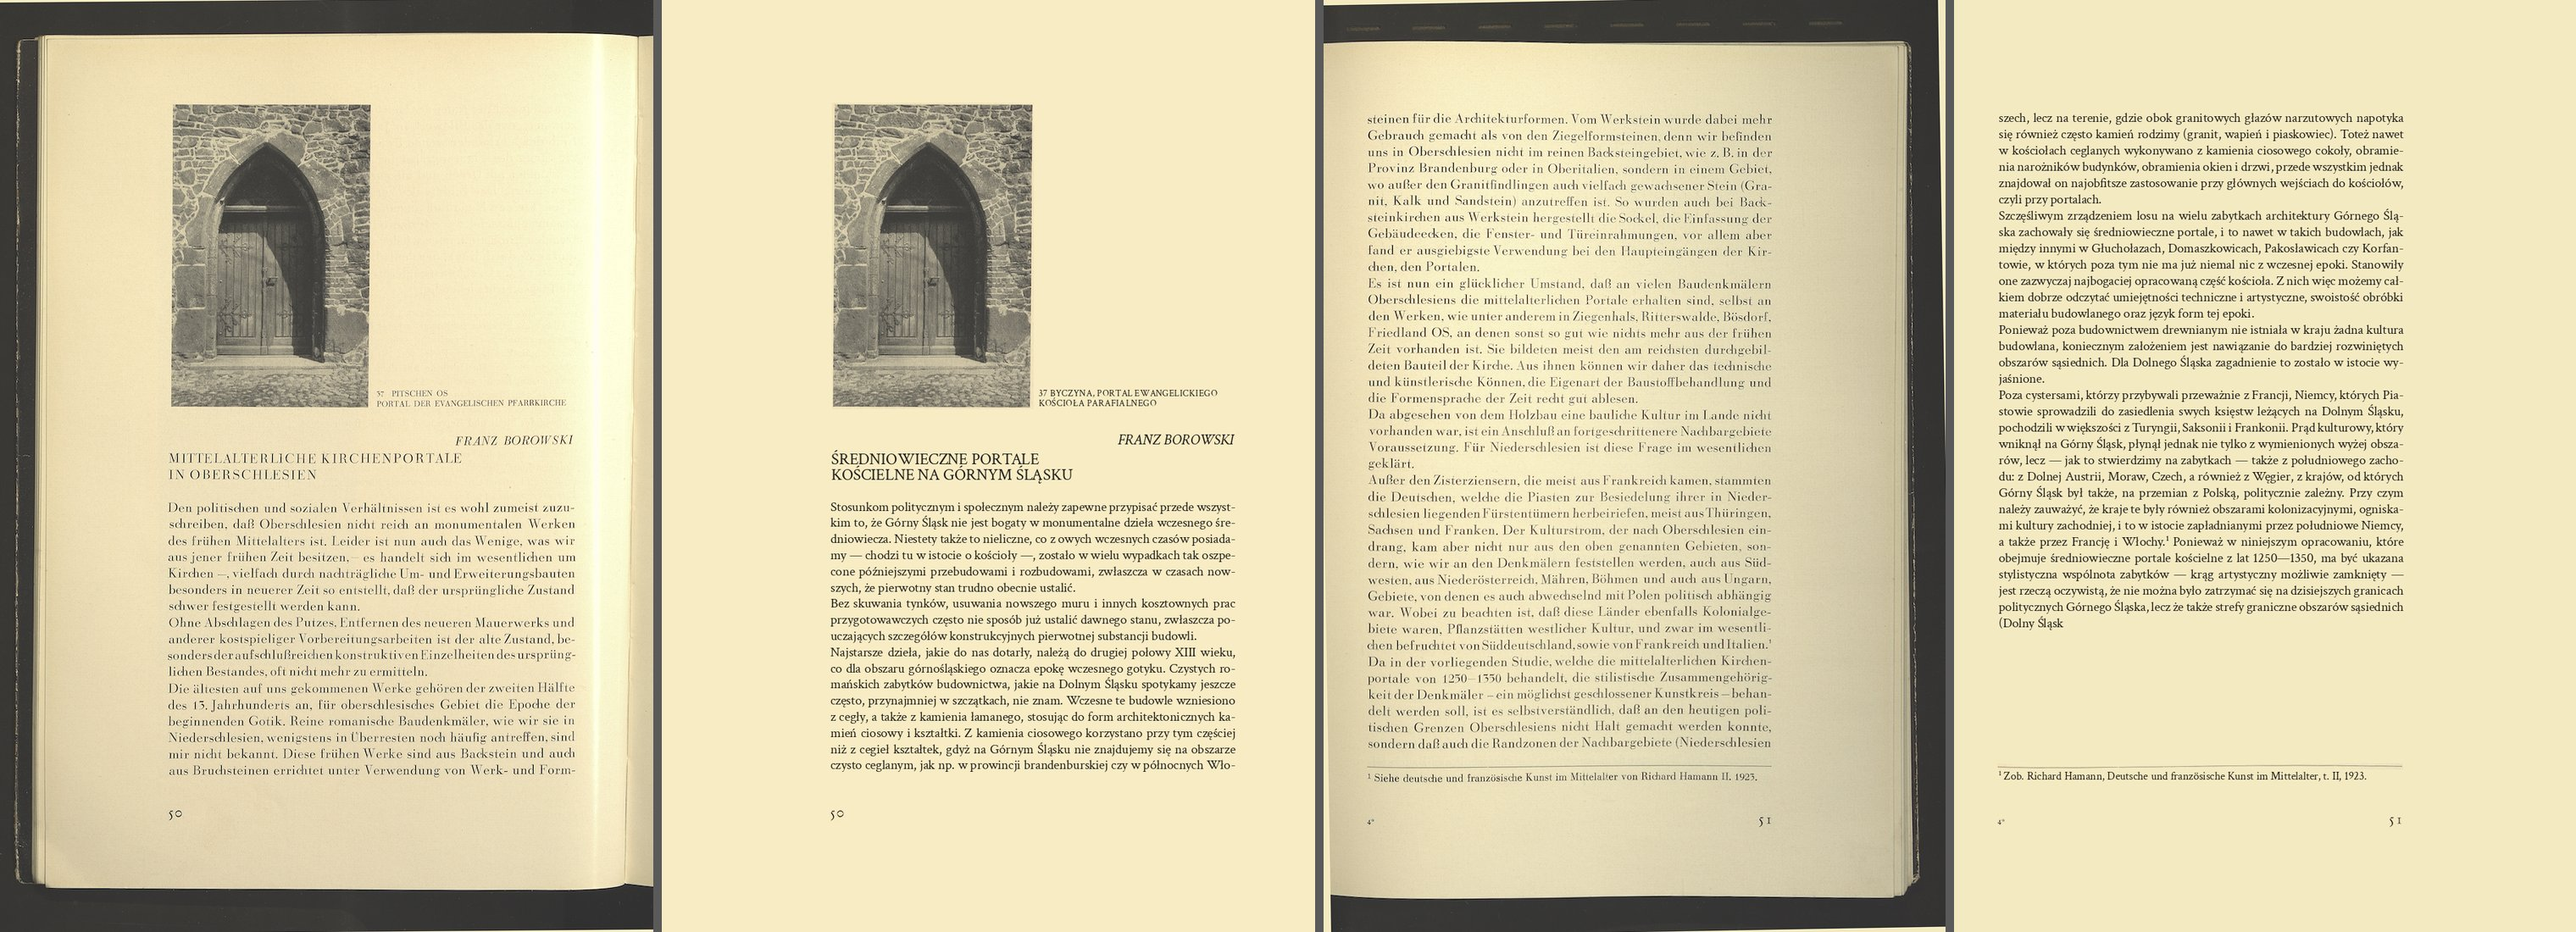
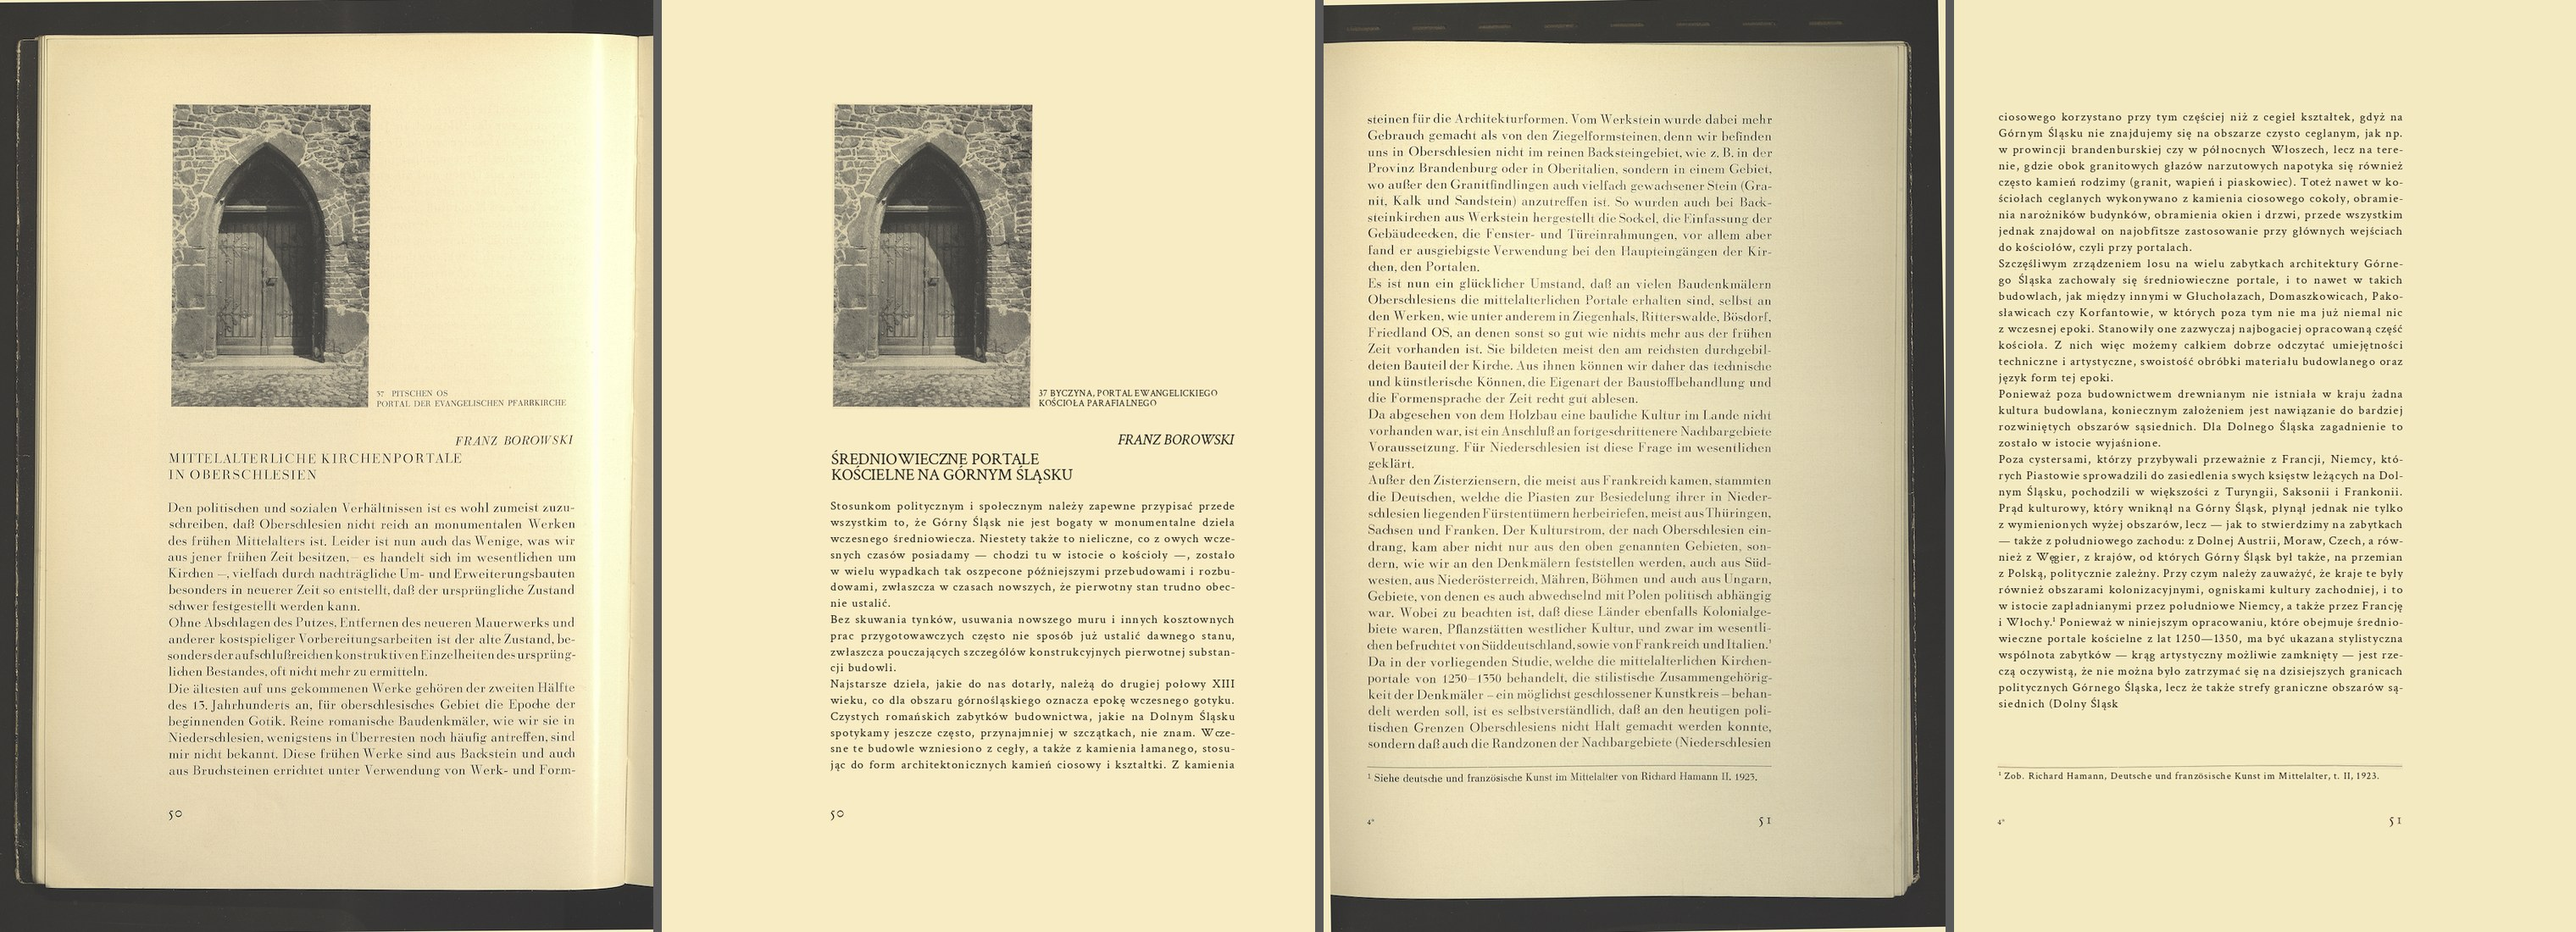
render: fit letter-spacing to the original line widths; font, tracking, size and word-space options
Claude-Session: https://claude.ai/code/session_01PCpvZfZkKD1m5FZm73iCKz

Changed region(s): [[0.7812, 0.1236, 0.9375, 0.7727], [0.3125, 0.5255, 0.5, 0.8345], [0.7812, 0.8036, 0.9062, 0.8345]]

diff --git a/src/booktrans/render.py b/src/booktrans/render.py
@@ -44,6 +44,8 @@ DEFAULT_FONT_DIRS = [HERE.parent.parent / 'fonts']
 SINGLE_LETTER = {'a', 'i', 'o', 'u', 'w', 'z'}      # Polish: do not end a line with these
 INK = (34, 30, 26)
 RMIN, RMAX = 0.75, 2.0           # allowed word-space stretch (1 = natural)
+FIT_UP = 1.04                    # with fitted tracking the size may exceed the glyph-height size by this much
+FIT_MAX_EM = 0.12                # fitted letter-spacing is capped at this fraction of the font size
 
 
 # ---------------------------------------------------------------- fonts
@@ -263,7 +265,7 @@ def anchor_of(block, col):
     return 'left'
 
 
-def calibrated_size(block, fonts, style, upper, ratios):
+def calibrated_size(block, fonts, style, upper, ratios, max_up=1.15):
     """Font size (work px) that sets the block's original text with its original line widths."""
     t = block['typography']
     gh = t['glyph_height_px'] or 12.0
@@ -282,7 +284,27 @@ def calibrated_size(block, fonts, style, upper, ratios):
         num += width * (0.95 if full else 1.0)
         den += natural
     s_w = num / den if den else s_h
-    return float(min(max(s_w, 0.85 * s_h), 1.15 * s_h)), s_h, s_w
+    return float(min(max(s_w, 0.85 * s_h), max_up * s_h)), s_h, s_w
+
+
+def fit_track(blocks, font, scale, size, max_em=FIT_MAX_EM):
+    """Letter-spacing (work px per character) that makes the original lines of ``blocks`` set in
+    ``font`` (loaded at ``scale`` x ``size``) as wide as they were on the scan: the median over lines
+    of (original width - natural width) / (characters - 1), clamped to [0, max_em * size]."""
+    gaps = []
+    for b in blocks:
+        lines = b['lines']
+        justified = b['typography'].get('alignment') == 'justified'
+        for i, ln in enumerate(lines):
+            t = ln['text'].strip(); n = len(t)
+            if n <= 3 or (justified and i == len(lines) - 1):
+                continue
+            full = justified and i < len(lines) - 1
+            target = (ln['bbox'][2] - ln['bbox'][0]) * (0.95 if full else 1.0)
+            gaps.append((target - font.getlength(t) / scale) / (n - 1))
+    if not gaps:
+        return 0.0
+    return float(min(max(np.median(gaps), 0.0), max_em * size))
 
 
 def paper_fill(img_arr, bbox, fallback):
@@ -310,7 +332,12 @@ def wipe(arr, box, S):
     return Image.fromarray(np.clip(bg[inner], 0, 255).astype(np.uint8))
 
 
-def render(doc, trans, out_dir, fonts, background='paper', ink=INK, resolution='auto', para_indent_em=None):
+def render(doc, trans, out_dir, fonts, background='paper', ink=INK, resolution='auto', para_indent_em=None,
+           tracking=None, size_scale=1.0, word_space=1.0):
+    """``tracking``: None = fit the letter-spacing per block so the translation fills the original
+    line widths; a number = fixed letter-spacing in em (0 = none).  ``size_scale`` and ``word_space``
+    multiply the chosen font size and the natural word space."""
+    up = FIT_UP if tracking is None else 1.15
     out_dir = Path(out_dir); out_dir.mkdir(parents=True, exist_ok=True)
     base = Path(doc.get('_dir', '.'))
     tr = trans['units']
@@ -389,8 +416,8 @@ def render(doc, trans, out_dir, fonts, background='paper', ink=INK, resolution='
                           'cap': sum(b['line_count'] for b in bl), 'bottom': max(b['bbox'][3] for b in bl)}
     if body_units and pages_body:
         sample = [b for u in body_units for _, b in chains[u]]
-        sizes = [calibrated_size(b, fonts, 'regular', False, ratios['regular'])[0] for b in sample]
-        size0 = float(np.median(sizes))
+        sizes = [calibrated_size(b, fonts, 'regular', False, ratios['regular'], up)[0] for b in sample]
+        size0 = float(np.median(sizes)) * size_scale
         W = float(np.median([g['width'] for g in pages_body.values()]))
         ind = [b['typography'].get('first_line_indent_px') or 0 for b in sample]
         indent = float(np.median(ind)) if np.median(ind) > 6 else 0.0
@@ -400,9 +427,11 @@ def render(doc, trans, out_dir, fonts, background='paper', ink=INK, resolution='
         for shrink in (1.0, 0.98, 0.96, 0.94, 0.92, 0.9):
             size = size0 * shrink
             font = fonts.get('regular', size * 8)
+            btrack = tracking * size if tracking is not None else fit_track(sample, font, 8, size)
             typeset_units = {}
             for u in body_units:
-                typeset_units[u] = typeset(tr[u]['pl'].strip(), font, W * 8, indent * 8, True)
+                typeset_units[u] = typeset(tr[u]['pl'].strip(), font, W * 8, indent * 8, True,
+                                           space_factor=word_space, track=btrack * 8)
             total = sum(len(v[0]) for v in typeset_units.values())
             if total <= total_cap:
                 break
@@ -420,7 +449,7 @@ def render(doc, trans, out_dir, fonts, background='paper', ink=INK, resolution='
                 pi = order[pos]; g = pages_body[pi]
                 S = scales[pi]
                 ft = fonts.get('regular', size * S)
-                ln = {'pieces': [{'t': p['t'], 'w': p['w'] / 8 * S, 'brk': p['brk'], 'track': 0.0} for p in line['pieces']],
+                ln = {'pieces': [{'t': p['t'], 'w': p['w'] / 8 * S, 'brk': p['brk'], 'track': p.get('track', 0.0) / 8 * S} for p in line['pieces']],
                       'gap': line['gap'] / 8 * S, 'hyphen': line['hyphen'], 'indent': line['indent'] / 8 * S}
                 baseline = g['top'] + r['asc'] * size + used[pi] * g['pitch']
                 draw_line(draws[pi], ln, ft, g['x1'] * S, baseline * S, ink)
@@ -428,6 +457,8 @@ def render(doc, trans, out_dir, fonts, background='paper', ink=INK, resolution='
                 if first_page is None:
                     first_page = pi
             report['units'].append({'unit': u, 'kind': 'body', 'lines': len(lines), 'size_px': round(size, 2),
+                                    'tracking_px': round(btrack, 2), 'tracking_em': round(btrack / size, 3),
+                                    'lines_original': sum(b['line_count'] for _, b in chains[u]),
                                     'hyphenated_lines': sum(l['hyphen'] for l in lines), 'relaxed_spacing': relaxed,
                                     'starts_on_page': doc['pages'][first_page]['page'] if first_page is not None else None})
         for pi in order:
@@ -448,9 +479,10 @@ def render(doc, trans, out_dir, fonts, background='paper', ink=INK, resolution='
         if upper:
             text = text.upper()
         t0 = first['typography']
-        size0, s_h, s_w = calibrated_size(first, fonts, style, upper, ratios.get(style, ratios['regular']))
+        size0, s_h, s_w = calibrated_size(first, fonts, style, upper, ratios.get(style, ratios['regular']), up)
         if upper:
             size0 = float(min(max(s_w, 0.7 * s_h), 1.15 * s_h))
+        size0 *= size_scale
         col = doc['pages'][frames[0][0]]['layout']['columns']
         col = col[0] if col else None
         anchor = anchor_of(first, col)
@@ -465,7 +497,11 @@ def render(doc, trans, out_dir, fonts, background='paper', ink=INK, resolution='
             size = size0 * shrink
             font = fonts.get(style, size * 8)
             track = 0.0
-            if upper:                                     # letter-space capitals up to the original line widths
+            if tracking is not None:
+                track = tracking * size
+            elif not upper:                               # fit the letter-spacing to the original line widths
+                track = fit_track([first], font, 8, size)
+            else:                                         # letter-space capitals up to the original line widths
                 gaps = []
                 for ln in first['lines']:
                     n = len(ln['text'].strip())
@@ -474,7 +510,7 @@ def render(doc, trans, out_dir, fonts, background='paper', ink=INK, resolution='
                         gaps.append(((ln['bbox'][2] - ln['bbox'][0]) - nat) / (n - 1))
                 track = float(min(max(np.median(gaps) if gaps else 0.0, 0.0), 0.25 * size))
             for Wc in Ws:
-                lines, relaxed = typeset(text, font, Wc * 8, 0.0, False, track=track * 8)
+                lines, relaxed = typeset(text, font, Wc * 8, 0.0, False, space_factor=word_space, track=track * 8)
                 if len(lines) <= capacity:
                     chosen = (shrink, Wc, lines, relaxed, size, track); break
             if chosen:
@@ -482,7 +518,7 @@ def render(doc, trans, out_dir, fonts, background='paper', ink=INK, resolution='
         if not chosen:
             shrink, Wc = 0.9, Ws[-1]; size = size0 * shrink
             font = fonts.get(style, size * 8)
-            lines, relaxed = typeset(text, font, Wc * 8, 0.0, False, track=0.0)
+            lines, relaxed = typeset(text, font, Wc * 8, 0.0, False, space_factor=word_space, track=0.0)
             chosen = (shrink, Wc, lines, relaxed, size, 0.0)
             report['warnings'].append('%s: needs %d lines, frame holds %d (overflow)' % (uid, len(lines), capacity))
         shrink, Wc, lines, relaxed, size, track = chosen
@@ -506,7 +542,8 @@ def render(doc, trans, out_dir, fonts, background='paper', ink=INK, resolution='
                 draw_line(draws[pi], ln, ft, x * S, (top + asc + k * pitch) * S, ink)
                 li += 1
         report['units'].append({'unit': uid, 'kind': first['role'], 'lines': len(lines), 'capacity': capacity,
-                                'size_px': round(size, 2), 'tracking_px': round(track, 2), 'shrink': shrink})
+                                'size_px': round(size, 2), 'tracking_px': round(track, 2), 'tracking_em': round(track / size, 3),
+                                'lines_original': capacity, 'shrink': shrink})
 
     # ------------------------------------------------ outputs
     names = []
@@ -539,6 +576,11 @@ def main():
                     help='paper: clean canvas (default); scan: the scanned page with text blocks wiped')
     ap.add_argument('--resolution', choices=['auto', 'work'], default='auto',
                     help='auto: full resolution when the scan has it; work: analysis scale')
+    ap.add_argument('--tracking', default='auto',
+                    help="letter-spacing: 'auto' (default) fits it per block so the translation fills the original "
+                         "line widths; a number in em (e.g. 0.05) fixes it; 0 = none")
+    ap.add_argument('--size-scale', type=float, default=1.0, help='multiply the chosen font size (default 1.0)')
+    ap.add_argument('--word-space', type=float, default=1.0, help='multiply the natural word space (default 1.0)')
     ap.add_argument('--ink', default='%d,%d,%d' % INK)
     ap.add_argument('--paragraph-indent', type=float, default=None,
                     help='first-line indent in em (default: as in the original page, normally none)')
@@ -551,9 +593,10 @@ def main():
     log.info('render', 'typesetting %d pages with %d translated units' % (len(doc['pages']), len(trans['units'])))
     if _HYPH is None:
         log.info('render', 'pyphen not installed: no hyphenation (pip install pyphen)')
-    names, rep = render(doc, trans, out, Fonts(a.font, a.bold_font, a.italic_font), a.background, ink, a.resolution, a.paragraph_indent)
+    names, rep = render(doc, trans, out, Fonts(a.font, a.bold_font, a.italic_font), a.background, ink, a.resolution, a.paragraph_indent,
+                      None if a.tracking == 'auto' else float(a.tracking), a.size_scale, a.word_space)
     for r in rep['units']:
-        log.info('render', '%s %s: %d lines%s, size %.1f px' % (r['unit'], r['kind'], r['lines'], ('/%d' % r['capacity']) if 'capacity' in r else '', r['size_px']))
+        log.info('render', '%s %s: %d lines (original %d), size %.1f px, tracking %.3f em' % (r['unit'], r['kind'], r['lines'], r['lines_original'], r['size_px'], r['tracking_em']))
     for r in rep['pages']:
         log.info('render', 'page %d body: %d of %d lines used' % (r['page'], r['body_lines_used'], r['body_lines_capacity']))
     for w in rep['warnings']:

diff --git a/src/booktrans/booktrans.py b/src/booktrans/booktrans.py
@@ -82,6 +82,12 @@ def main():
                     help='spread: open book split at the gutter (default); page: one whole page; crop: part of a page')
     ap.add_argument('--translations', type=Path, help='translations JSON ({"units": {unit_id: {"pl": text}}}); if given, the pages are also rebuilt into <out>/<name>/render/')
     ap.add_argument('--background', choices=['paper', 'scan'], default='paper', help='for --translations: clean paper canvas or the scan with text wiped')
+    ap.add_argument('--font', type=Path, help='regular serif TTF with Polish letters (default: bundled Crimson Text)')
+    ap.add_argument('--bold-font', type=Path)
+    ap.add_argument('--italic-font', type=Path)
+    ap.add_argument('--tracking', default='auto', help="letter-spacing for --translations: 'auto' fits it to the original line widths; a number in em fixes it; 0 = none")
+    ap.add_argument('--size-scale', type=float, default=1.0, help='multiply the chosen font size')
+    ap.add_argument('--word-space', type=float, default=1.0, help='multiply the natural word space')
     ap.add_argument('-v', '--verbose', action='store_true', help='also print every region and every OCR line with its confidence')
     a = ap.parse_args()
     os.environ.setdefault('BOOKTRANS_T0', str(__import__('time').time()))
@@ -99,7 +105,9 @@ def main():
             log.info('wrap', '=== page assembly (render.py) ===')
             doc['_dir'] = str(out)
             trans = json.loads(a.translations.read_text(encoding='utf-8'))
-            names, rep = render(doc, trans, out / 'render', Fonts(), a.background)
+            names, rep = render(doc, trans, out / 'render', Fonts(a.font, a.bold_font, a.italic_font), a.background,
+                               tracking=None if a.tracking == 'auto' else float(a.tracking),
+                               size_scale=a.size_scale, word_space=a.word_space)
             for w in rep['warnings']:
                 log.info('wrap', 'WARNING ' + w)
             log.info('wrap', 'rebuilt pages: %s in %s' % (', '.join(names), out / 'render'))

diff --git a/tests/test_render.py b/tests/test_render.py
@@ -89,3 +89,32 @@ def test_missing_translation_keeps_original_pixels(tmp_path):
     out = np.asarray(Image.open(tmp_path / 'out' / names[0]).convert('RGB'))
     assert (out[130:140, 100:300] == 10).all()
     assert any('no translation' in w for w in rep['warnings'])
+
+
+def _blk(widths_texts, justified=False):
+    lines = [{'text': t, 'bbox': [0, i * 20, w, i * 20 + 14]} for i, (t, w) in enumerate(widths_texts)]
+    return {'lines': lines, 'typography': {'alignment': 'justified' if justified else 'left'}}
+
+
+def test_fit_track_fills_original_widths():
+    f = _fonts().get('regular', 8 * 16)
+    txt = 'Mittelalterliche Kirchenportale'
+    nat = f.getlength(txt) / 8
+    b = _blk([(txt, nat + 31 * 1.0)] * 3)                 # original is 1 px/char wider than natural
+    t = R.fit_track([b], f, 8, 16)
+    assert abs(t - 1.0) < 0.05
+    wide = _blk([(txt, nat + 31 * 9.0)] * 3)              # absurdly wide original: capped at 0.12 em
+    assert abs(R.fit_track([wide], f, 8, 16) - 0.12 * 16) < 1e-6
+    narrow = _blk([(txt, nat - 20)] * 3)                  # original narrower: never negative
+    assert R.fit_track([narrow], f, 8, 16) == 0.0
+
+
+def test_tracking_option_and_report(tmp_path):
+    doc, trans = _doc(tmp_path)
+    _, rep0 = R.render(doc, trans, tmp_path / 'o0', _fonts(), tracking=0.0)
+    _, rep1 = R.render(doc, trans, tmp_path / 'o1', _fonts(), tracking=0.06)
+    u0, u1 = rep0['units'][0], rep1['units'][0]
+    assert u0['tracking_em'] == 0.0 and abs(u1['tracking_em'] - 0.06) < 0.002
+    assert 'lines_original' in u1
+    _, rep2 = R.render(doc, trans, tmp_path / 'o2', _fonts(), size_scale=0.9)
+    assert rep2['units'][0]['size_px'] < rep0['units'][0]['size_px'] * 0.95

diff --git a/README.md b/README.md
@@ -44,7 +44,9 @@ python booktrans.py 0001.tif -o output --translations ../../examples/0001.pl.jso
 python render.py output/0001/document.json translations.json -o output/0001/render   # same, on its own
 ```
 
-`render/` gets `page_NN_X.png` (full resolution when the scan was high-resolution), `compare.png` (original | reconstruction) and `report.json` (line counts, overflow warnings). The translations file maps each unit id of `document.json` to its Polish text. `prompts/translate_pl.txt` holds the translation prompt; `examples/0001.pl.json` is the translation of the first sample spread. The default font is Crimson Text (SIL OFL, in `fonts/`); `--font` takes any serif TTF with Polish letters. `pip install pyphen` enables Polish hyphenation.
+`render/` gets `page_NN_X.png` (full resolution when the scan was high-resolution), `compare.png` (original | reconstruction) and `report.json` (line counts, overflow warnings). The translations file maps each unit id of `document.json` to its Polish text. `prompts/translate_pl.txt` holds the translation prompt; `examples/0001.pl.json` is the translation of the first sample spread. The default font is Crimson Text (SIL OFL, in `fonts/`); `--font`, `--bold-font` and `--italic-font` take any serif TTFs with Polish letters (also accepted by `booktrans.py`). `pip install pyphen` enables Polish hyphenation.
+
+**Font fitting.** The original's letter-spacing is wider than most book fonts', so the translation would set denser than the scan. By default (`--tracking auto`) the renderer fits the letter-spacing per block so the original lines, set in the new font, would be as wide as on the scan (capped at 0.12 em), with the size kept near the glyph height. `report.json` gives `tracking_em` and `lines_original` per unit. Manual controls: `--tracking EM` (0 = none), `--size-scale F`, `--word-space F`.
 
 Useful options: `--layout spread|page|crop` (open book split at the gutter / one whole page / part of a page), `--scale auto|N` (how much larger than the sample scans the input is; auto measures the line pitch, so 600 DPI scans and crops are handled by analysing a downscaled working copy while OCR and figures use the full-resolution pixels), `--ocr-scale`, `--lang` (default `deu`), `-v` (print every region and OCR line with its confidence). Progress with timings is printed to the terminal while it runs.
 

diff --git a/CHANGELOG.md b/CHANGELOG.md
@@ -2,6 +2,15 @@
 
 ## Unreleased — stage2-rework
 
+### Font fitting (render)
+
+- Letter-spacing is fitted per block (`--tracking auto`, default): the translation fills the
+  original line widths; capped at 0.12 em, size at most 4 % above the glyph-height size.
+  0001: body 49 -> 54 lines (original 56), with 0.08 em tracking.
+- New options `--tracking EM`, `--size-scale`, `--word-space`; `booktrans.py` passes
+  `--font/--bold-font/--italic-font` and these to the renderer. `--tracking 0` = previous look.
+- `report.json` gains `tracking_em` and `lines_original`.
+
 ### OCR crops and Stage 1 clean-up
 
 - New `src/booktrans/imgutil.py` with `crop_for_ocr`: OCR crops now include
